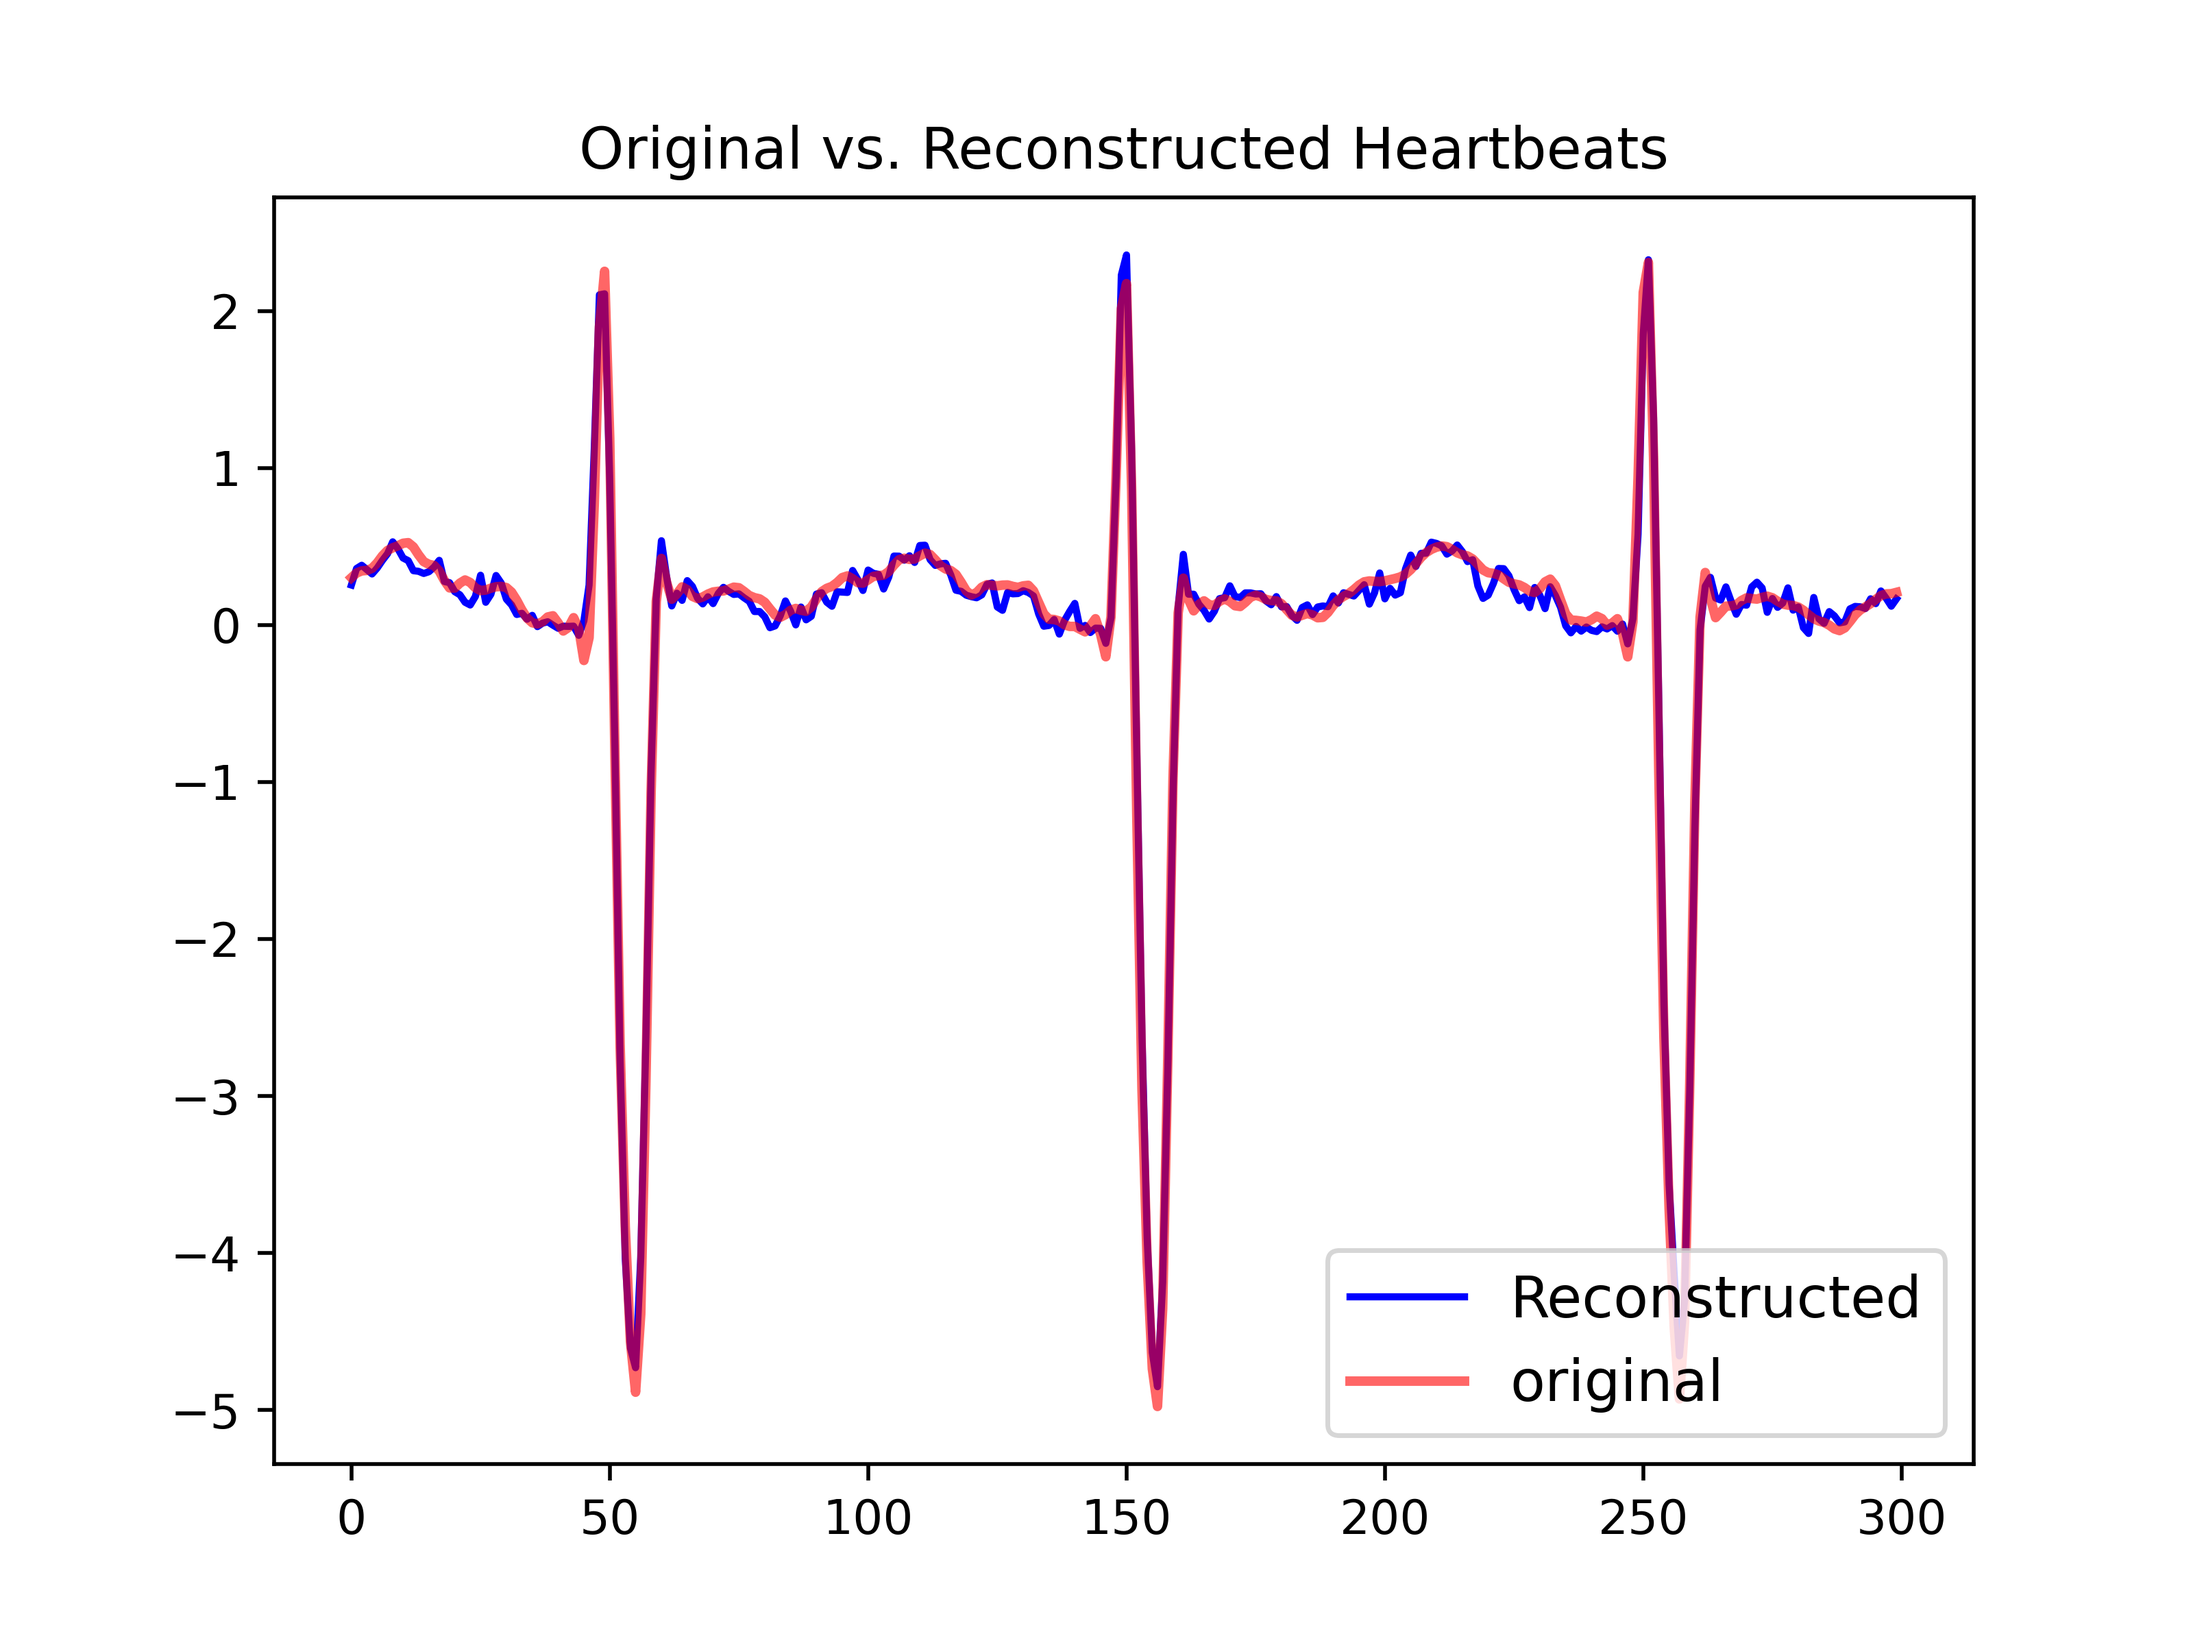
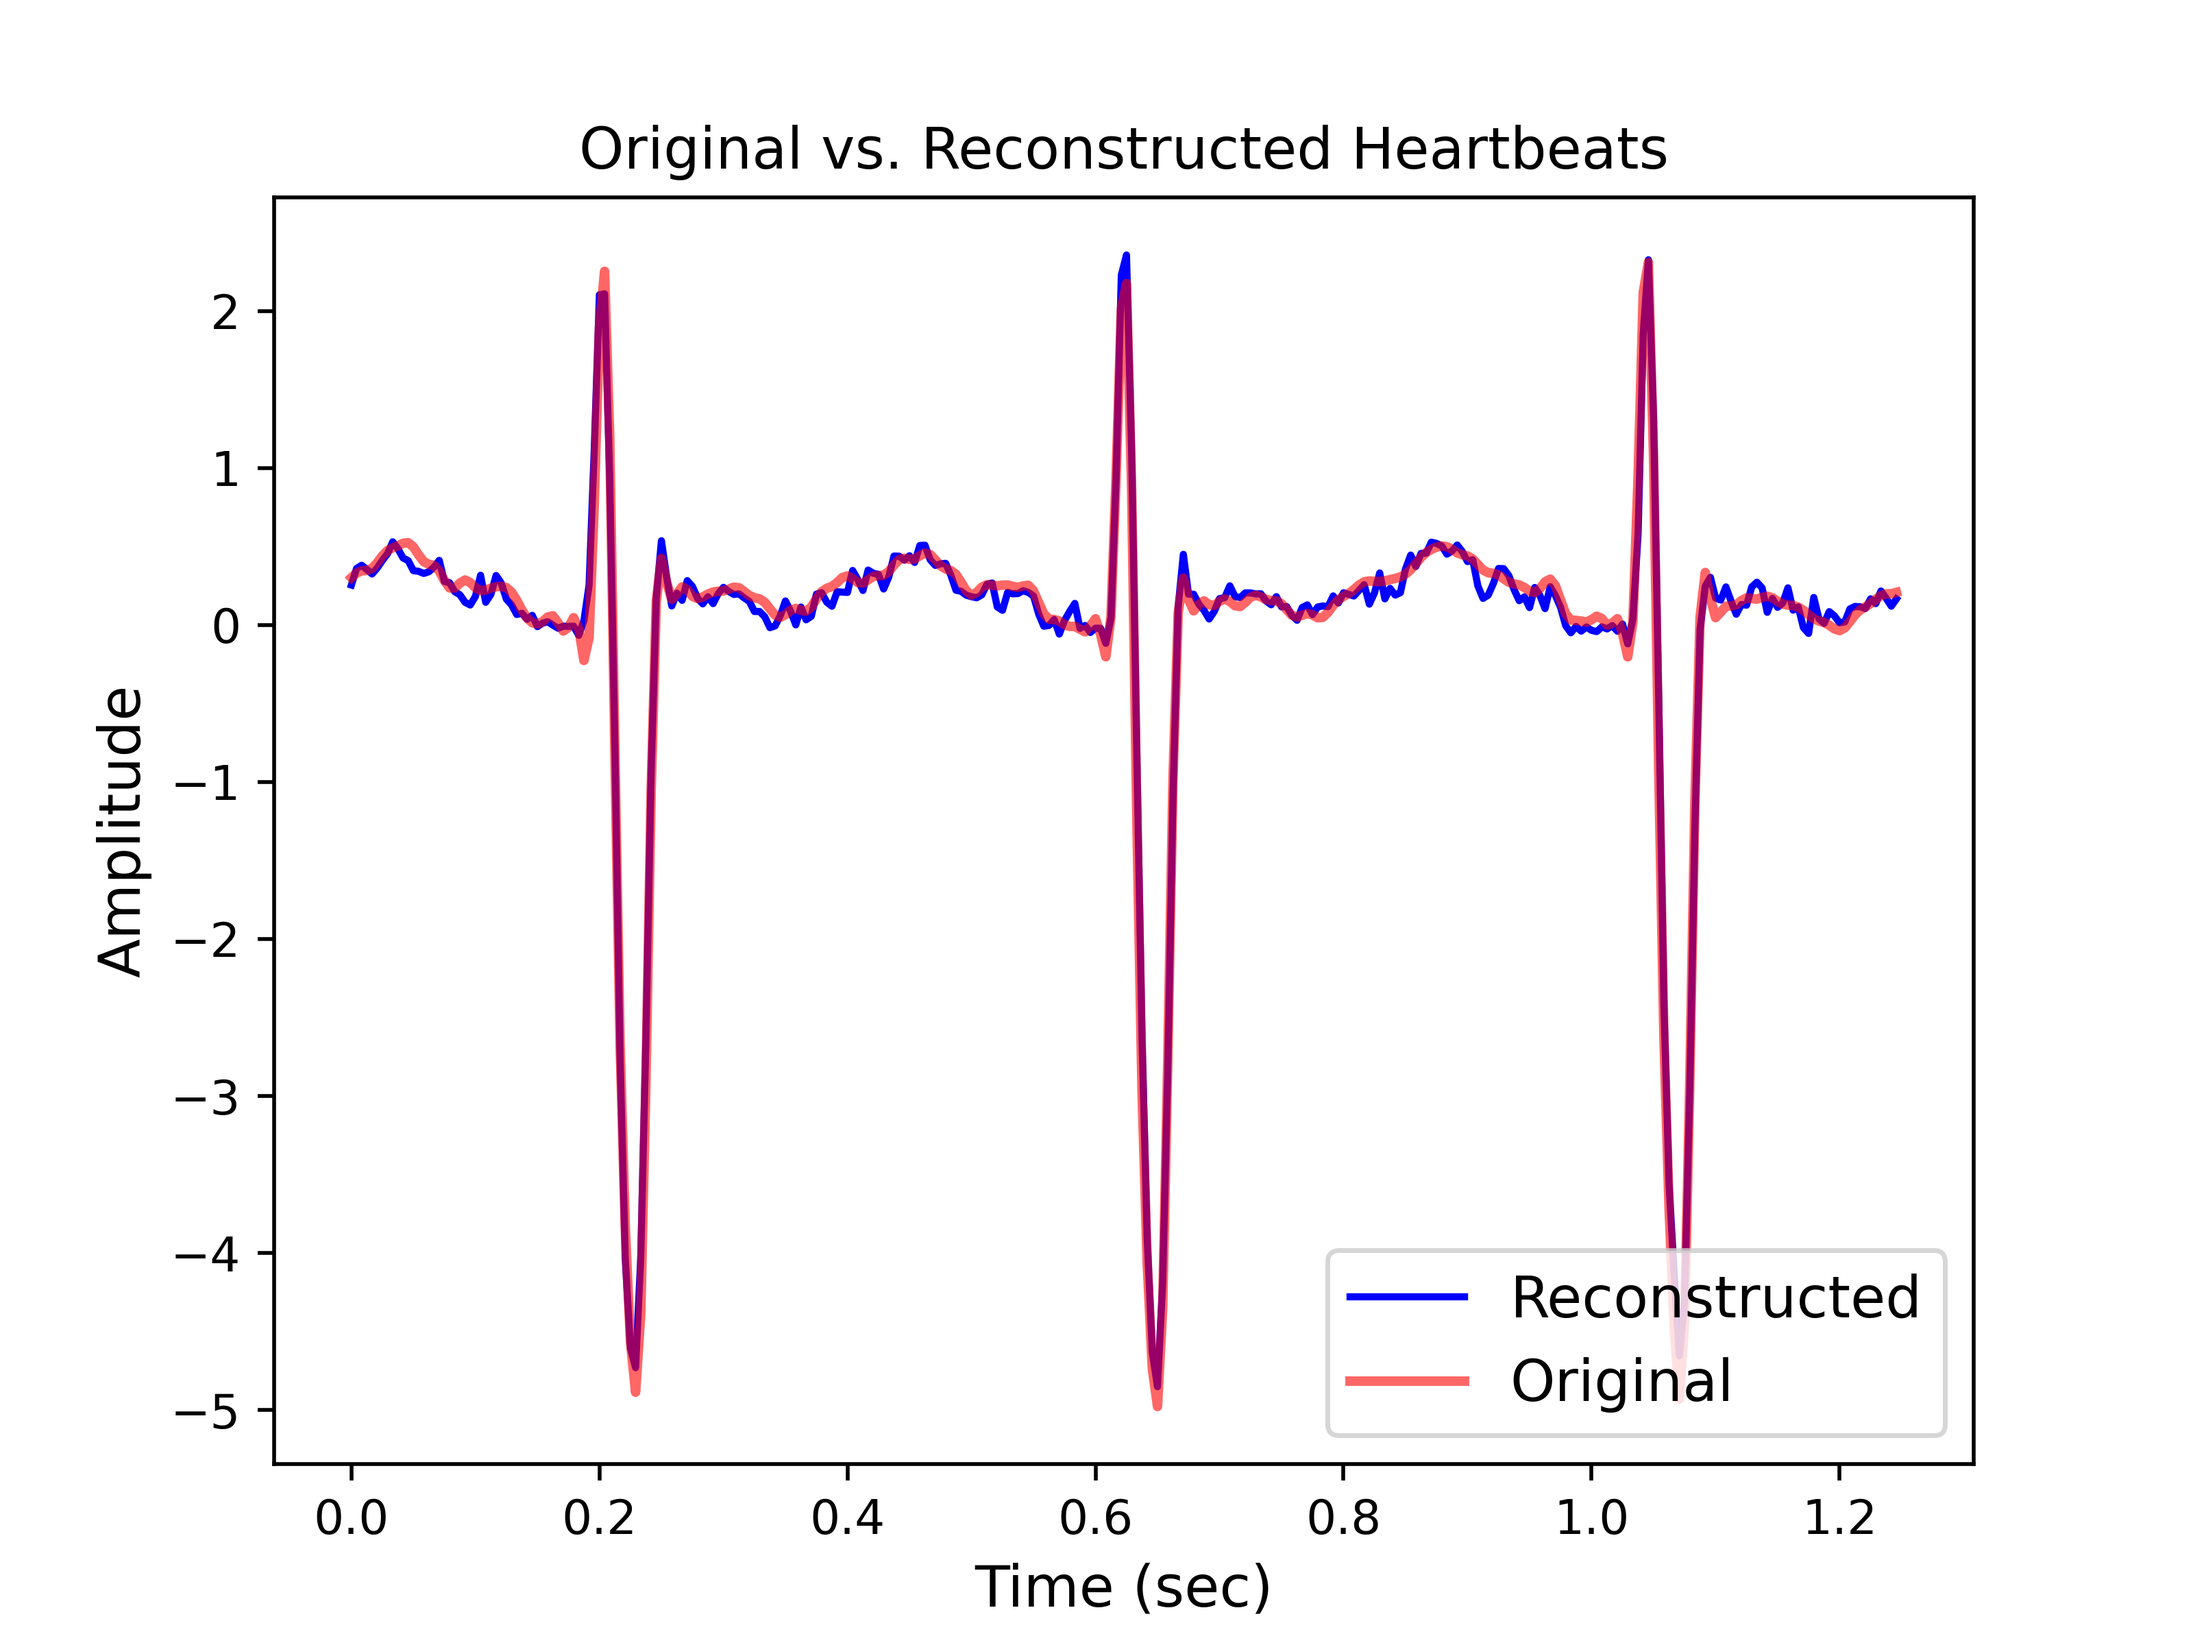
uhhhh

diff --git a/src/models/reconstructed_plots.py b/src/models/reconstructed_plots.py
@@ -16,8 +16,10 @@ if __name__ == "__main__":
     plt.rcParams['figure.dpi'] = 500
     plt.title("Original vs. Reconstructed Heartbeats")
     set_font_size()
-    plt.plot(reconstructed[1, 650:950, 0], label='Reconstructed', c='Blue')
-    plt.plot(original[1, 650:950, 0], label='original', c='Red', alpha=0.6, linewidth=2)
+    plt.plot(np.asarray(range(len(reconstructed[1, 650:950, 0])))/240, reconstructed[1, 650:950, 0], label='Reconstructed', c='Blue')
+    plt.plot(np.asarray(range(len(original[1, 650:950, 0])))/240, original[1, 650:950, 0], label='Original', c='Red', alpha=0.6, linewidth=2)
+    plt.xlabel("Time (sec)")
+    plt.ylabel("Amplitude")
     plt.legend(loc='lower right')
     plt.savefig("images/compare_original_reconstructed.png")
     plt.show()
